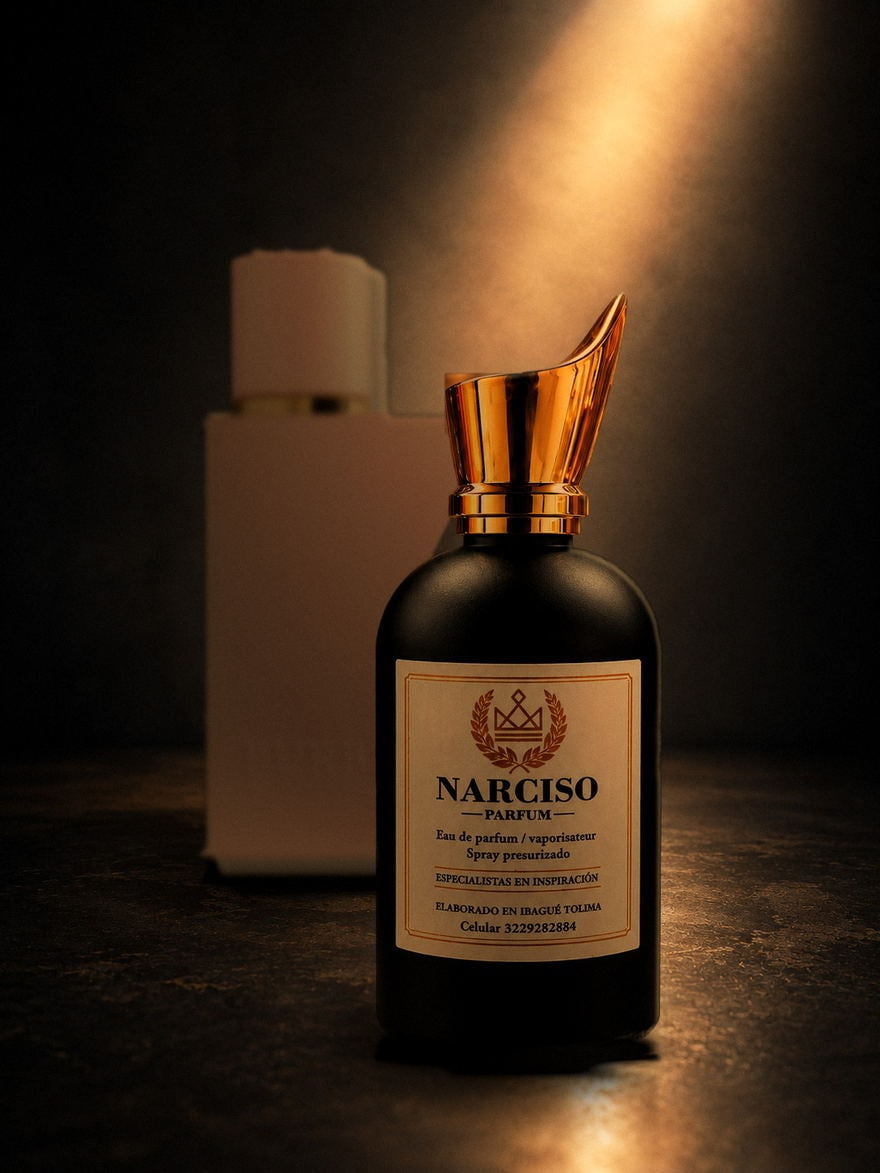
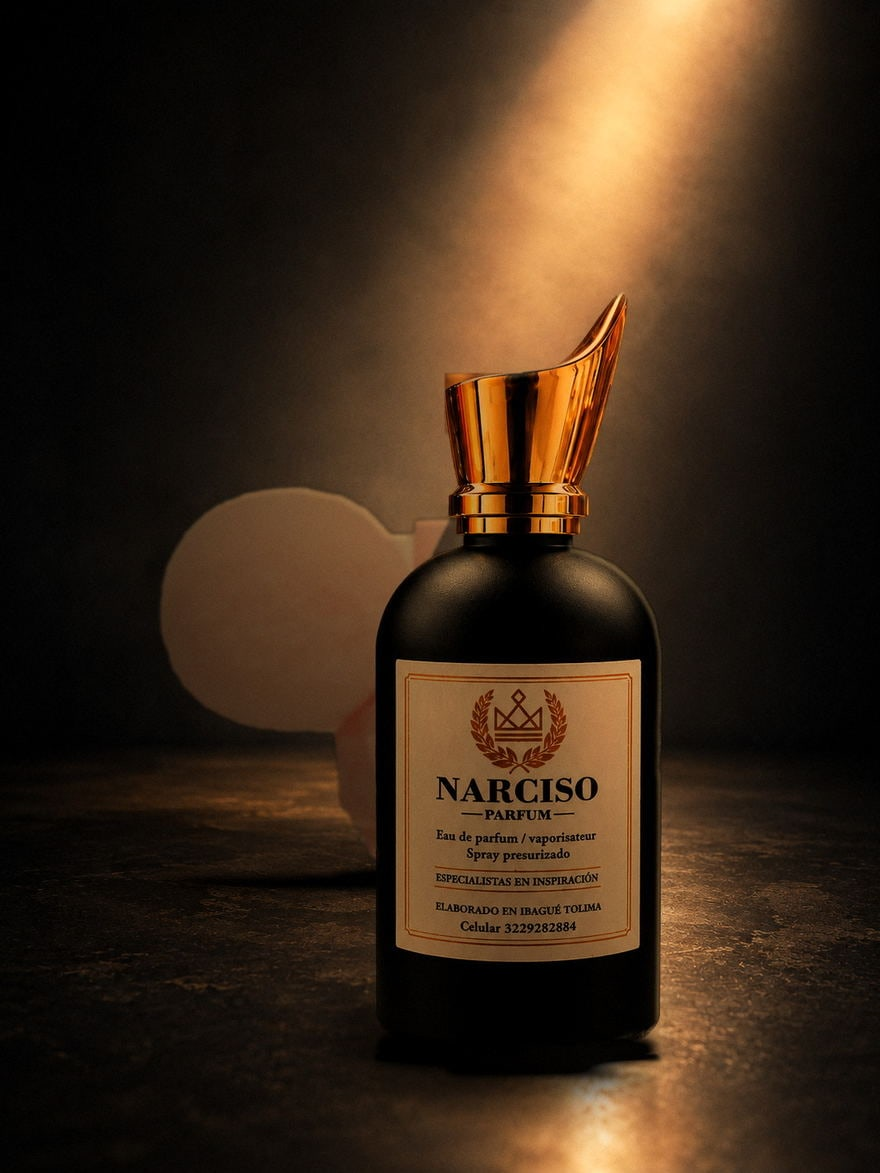
Corrige la foto de Her Elixir: 262 de 262 productos con foto propia
El frasco correcto (rosado, tapa redondeada) estaba en la página 9 del
PDF del catálogo, pero el cruce código->producto de una sesión anterior
había copiado por error la foto de Her EDP. Se extrajo la página 9
directamente con pdfimages y se confirmó contra una foto de referencia
real del cliente y el bottle oficial en burberry.com.

Changed region(s): [[0.1841, 0.2148, 0.5216, 0.7673]]

diff --git a/src/data/products.js b/src/data/products.js
@@ -50,9 +50,9 @@ export const CATEGORIES = {
 // tapa real SÍ es una figurilla dorada en forma de pierna/acróbata). Se
 // restauraron esas 3 y se sacó `bade-e-al-oud-honor-glory-lattafa-unisex`.
 // Para Her Elixir se buscó en el PDF si existía otra página con el frasco
-// rojo/granate real — solo hay una página para Her Elixir en todo el
-// esquema de códigos (D009) y muestra el mismo frasco pálido que Her EDP,
-// así que sigue sin foto propia (no hay nada mejor que usar todavía).
+// real — la búsqueda inicial asumió que solo había una página (D009) y que
+// mostraba el mismo frasco pálido que Her EDP, así que quedó sin foto
+// propia por un tiempo (ver entrada de abajo sobre la corrección).
 //
 // Lección: la verificación automática (agentes + segunda opinión) puede
 // fallar en diseños de frascos muy específicos/nicho que no conoce bien —
@@ -68,18 +68,31 @@ export const CATEGORIES = {
 // `rehab-initio-parfums-prives-unisex`,
 // `club-de-nuit-precieux-i-armaf-unisex`, `hawas-fire-rasasi-unisex`,
 // `9-pm-rebel-afnan-unisex`) — ver `scripts/apply-nuevos-damas-unisex.mjs`.
-// El único que sigue sin foto propia es `her-elixir-burberry-mujer`: la
-// foto nueva de este lote (`Burberry_Her_Elixir.jpg`) es la TERCERA toma
-// distinta del proveedor y sigue mostrando el mismo frasco pálido de "Her
-// EDP" en vez del rojo/granate real del Elixir — parece una limitación del
-// material del proveedor (probablemente solo tienen un prop de Burberry
-// "Her", no uno específico de Elixir), no algo que un nuevo reenvío vaya a
-// arreglar solo. Sigue con la foto genérica.
+// El único que seguía sin foto propia era `her-elixir-burberry-mujer`: las
+// 3 tomas resueltas hasta entonces (portadas D009, `Catalogo_Narciso_3.pdf`
+// vía el mapeo código→producto, y `Burberry_Her_Elixir.jpg` de
+// NARCISO_NUEVOS_DAMAS) mostraban el mismo frasco pálido/crema que Her EDP.
 //
-// El único producto que NO está en este set es `her-elixir-burberry-mujer`
-// (261 de 262 productos ya tienen foto propia) — usa la foto genérica
-// compartida `catalog-bottle` — ver ProductCard.jsx y ProductDetailPage.jsx,
-// que resuelven `image` con `import.meta.glob` sobre esa carpeta.
+// 2026-09-05 — corregido: el cliente mandó una foto de referencia real del
+// frasco oficial de Burberry Her Elixir de Parfum (rosa pálido, tapa
+// redondeada, "BURBERRY" en relieve en la base) y confirmó el nombre —
+// coincide con el bottle real que Burberry vende (verificado también en
+// burberry.com). Al extraer la imagen de la página 9 del PDF directamente
+// con pdfimages -f 9 -l 9 (en vez de reutilizar el archivo `new_<id>.jpg`
+// ya generado por el cruce código→producto), apareció un frasco rosado
+// redondeado DISTINTO al crema/caja de Her EDP — visualmente igual al
+// bottle real. Se confirmó que el archivo `new_her-elixir-burberry-mujer.jpg`
+// generado en la sesión de agosto era, de hecho, una copia accidental del
+// de Her EDP (ambos con bytes/composición casi idénticos) — un bug real del
+// cruce de esa sesión, no una limitación del proveedor como se había
+// concluido. Las 7 versiones del PDF que el cliente reenvió con el tiempo
+// (`Catalogo_Narciso.pdf` a `_6`) muestran consistentemente ese mismo
+// frasco rosado correcto en la página 9. Ver nota fechada en
+// project_narciso_parfum.md para el detalle completo.
+//
+// Con esta corrección, los 262 productos ya tienen foto propia — ver
+// ProductCard.jsx y ProductDetailPage.jsx, que resuelven `image` con
+// `import.meta.glob` sobre `src/assets/img/products/`.
 const PRODUCTS_WITH_OWN_PHOTO = new Set([
   '1-million-elixir-paco-rabanne-hombre', '1-million-lucky-paco-rabanne-hombre', '1-million-paco-rabanne-hombre', '1-million-prive-paco-rabanne-hombre', '212-nyc-carolina-herrera-hombre', '212-nyc-carolina-herrera-mujer',
   '212-sexy-carolina-herrera-mujer', '212-sexy-men-carolina-herrera-hombre', '212-vip-black-carolina-herrera-hombre', '212-vip-black-extra-carolina-herrera-hombre', '212-vip-black-i-love-ny-carolina-herrera-hombre', '212-vip-black-red-carolina-herrera-hombre',
@@ -99,7 +112,7 @@ const PRODUCTS_WITH_OWN_PHOTO = new Set([
   'elysium-pour-homme-roja-parfums-unisex', 'erba-pura-xerjoff-unisex', 'eros-energy-versace-hombre', 'eros-flame-versace-hombre', 'eros-pour-femme-versace-mujer', 'eros-versace-hombre',
   'eternity-calvin-klein-hombre', 'euphoria-calvin-klein-hombre', 'euphoria-calvin-klein-mujer', 'exclusive-azure-fantasy-orientica-mujer', 'explorer-platinum-montblanc-hombre', 'fahrenheit-dior-hombre',
   'fame-paco-rabanne-mujer', 'flamenco-ramon-monegal-unisex', 'good-girl-blush-carolina-herrera-mujer', 'good-girl-blush-elixir-carolina-herrera-mujer', 'good-girl-carolina-herrera-mujer', 'hacivat-nishane-unisex',
-  'hawas-fire-rasasi-unisex', 'hawas-ice-rasasi-hombre', 'her-edp-burberry-mujer', 'herod-parfums-de-marly-unisex', 'il-dolce-ilmin-unisex', 'il-femme-ilmin-unisex', 'il-kakuno-ilmin-unisex',
+  'hawas-fire-rasasi-unisex', 'hawas-ice-rasasi-hombre', 'her-edp-burberry-mujer', 'her-elixir-burberry-mujer', 'herod-parfums-de-marly-unisex', 'il-dolce-ilmin-unisex', 'il-femme-ilmin-unisex', 'il-kakuno-ilmin-unisex',
   'il-mexico-ilmin-unisex', 'il-orgasme-ilmin-unisex', 'imagination-louis-vuitton-unisex', 'in-motion-hugo-boss-hombre', 'in2u-for-him-calvin-klein-hombre', 'instant-crush-mancera-unisex',
   'intense-cafe-montale-unisex', 'invictus-legend-paco-rabanne-hombre', 'invictus-onyx-paco-rabanne-hombre', 'invictus-paco-rabanne-hombre', 'invictus-parfum-paco-rabanne-hombre', 'invictus-platinum-paco-rabanne-hombre',
   'invictus-victory-elixir-paco-rabanne-hombre', 'irresistible-givenchy-mujer', 'island-bliss-armaf-unisex', 'k-by-dolce-gabbana-dolce-gabbana-hombre', 'karpos-ahli-unisex', 'khamrah-dukhan-lattafa-unisex',
